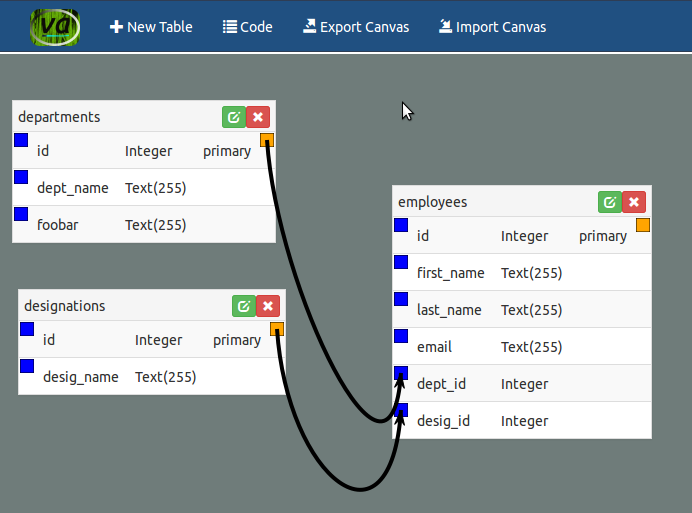
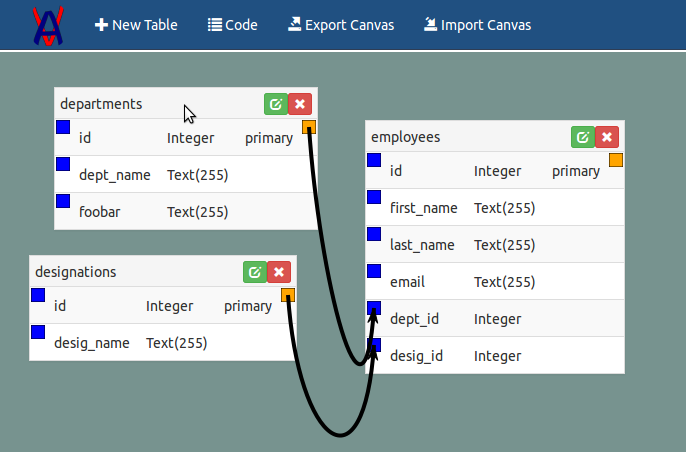
updated readme, screenshots

Changed region(s): [[0.0, 0.1858, 0.949, 0.9912], [0.0, 0.0, 1.0, 0.1239]]

diff --git a/css/app.css b/css/app.css
@@ -1,6 +1,6 @@
 body {
 	font-family: ubuntu;
-	background: red;
+	/*background: red;*/
 }
 h2 {
 	text-align: center;
@@ -48,10 +48,11 @@ nav.navbar.navbar-inverse  .navbar-nav .dropdown-menu li a:hover
 	font-family: ubuntu;
 }
 
-#theCanvas {
+#theCanvas 
+{
 	z-index: 255;
-	/*background-color: rgba(14, 63, 56, 0.56);*/
-	background-color: rgba(16, 38, 34, 1);
+	background-color: rgba(14, 63, 56, 0.56);
+	/*background-color: rgba(16, 38, 34, 0.56);*/
 }
 
 #resultsDialog #theCode pre {

diff --git a/README.md b/README.md
@@ -48,6 +48,7 @@
 
 - Ability to change ordering of columns by drag-drop.
 - Ability to save the session for future use and `database versioning`.
+- Ability to share sessions through URL.
 - Multiple sessions in different tabs with ability to save them on backend.
 - Interfacing with backends like php/mysql/etc. for complete automation.
 - Charting/data-analysis features.
